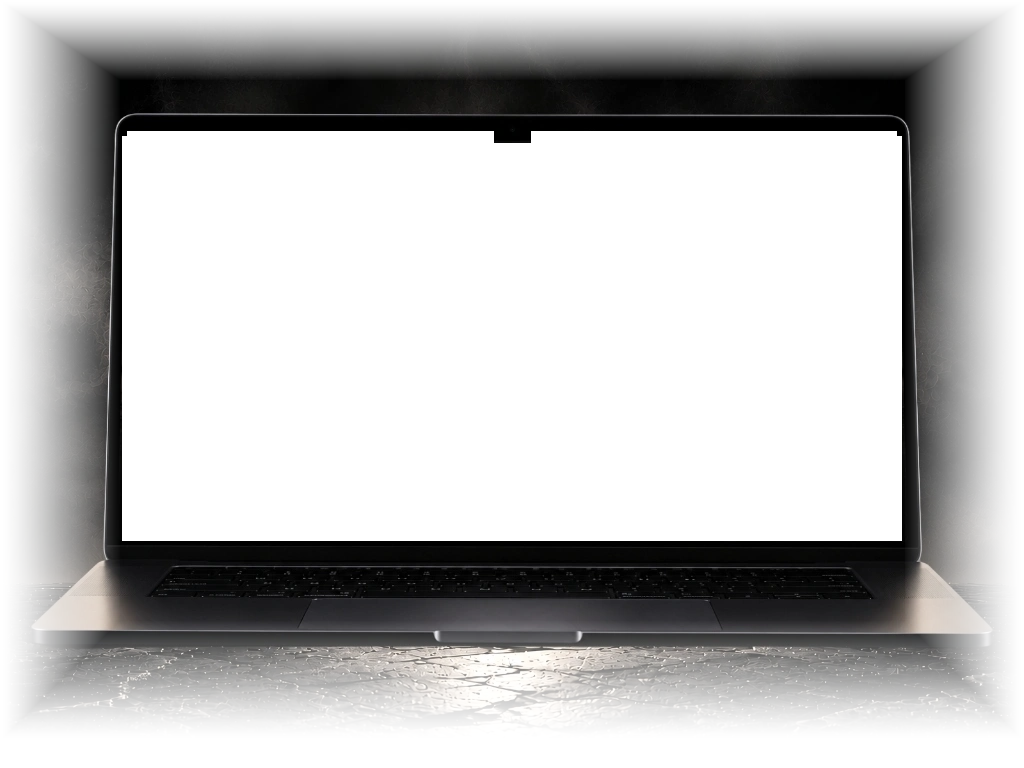
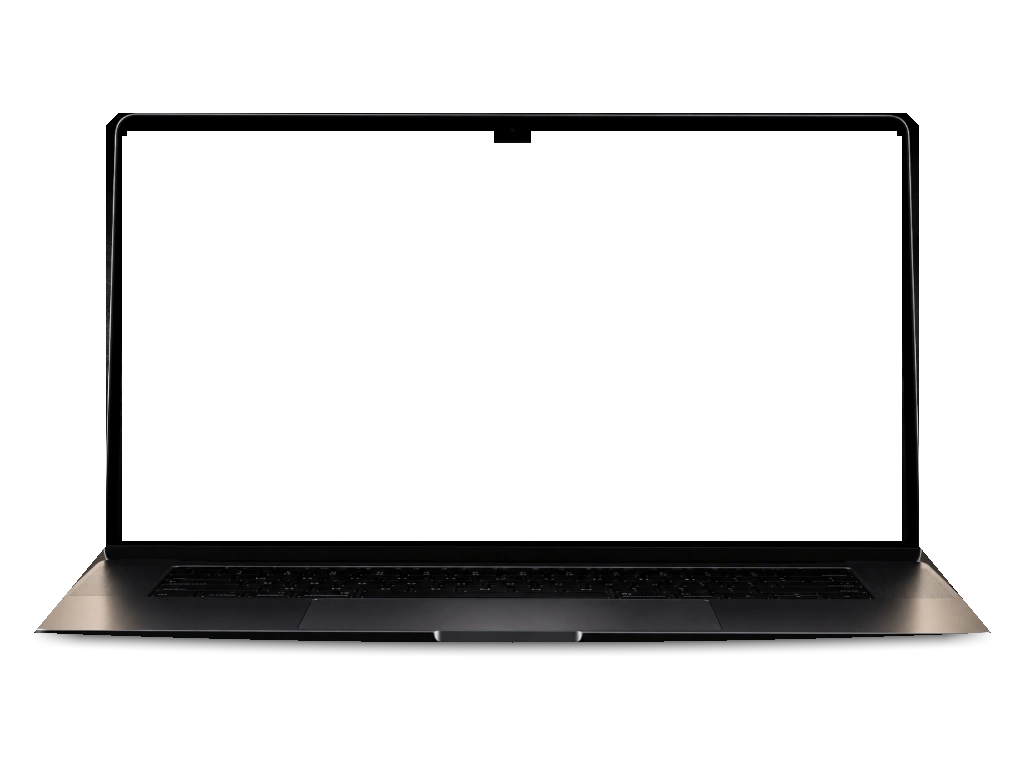
feat(hero): Lorenzo Lottici dark celestial horizon with borderless MacBook integration

diff --git a/src/components/landing/Hero.tsx b/src/components/landing/Hero.tsx
@@ -183,18 +183,25 @@ export function LandingHero() {
       className="relative min-h-[92vh] lg:min-h-screen flex flex-col justify-center pt-24 sm:pt-28 pb-12 sm:pb-16 px-4 sm:px-8 lg:px-14 overflow-hidden bg-black text-white select-none"
     >
       {/* =========================================================================
-          PURE BLACK STUDIO ATMOSPHERE (Lorenzo Lottici Awwwards Reference)
-          Minimal dark smoke, luxury ambient lighting, zero distraction
+          LORENZO LOTTICI DARK CELESTIAL HORIZON BACKGROUND
+          Distant monochromatic celestial sphere, foggy horizon, volumetric smoke
          ========================================================================= */}
       <div className="absolute inset-0 pointer-events-none overflow-hidden z-0 bg-black">
+        {/* Full-width Lorenzo Lottici Dark Celestial Horizon Backdrop */}
+        <img
+          src="/brand/hero-dark-celestial-horizon.webp"
+          alt="Dark Celestial Horizon Atmosphere"
+          className="w-full h-full object-cover object-center filter brightness-[1.05] contrast-[1.05]"
+        />
+
         {/* Subtle Warm Amber Glow behind Headline */}
         <div className="absolute top-[22%] left-[4%] w-[500px] h-[500px] bg-gradient-to-br from-amber-500/10 via-amber-600/5 to-transparent rounded-full blur-[130px] pointer-events-none" />
 
         {/* Subtle Cyan / Electric Glow behind MacBook */}
         <div className="absolute top-[18%] right-[8%] w-[650px] h-[550px] bg-gradient-to-bl from-cyan-500/10 via-indigo-600/5 to-transparent rounded-full blur-[140px] pointer-events-none" />
 
-        {/* Atmospheric mist texture */}
-        <div className="absolute inset-0 bg-[radial-gradient(#1e293b_1px,transparent_1px)] [background-size:36px_36px] opacity-20 pointer-events-none" />
+        {/* Left Side Ambient Vignette for 100% Vector Headline Readability */}
+        <div className="absolute inset-0 bg-gradient-to-r from-black via-black/75 md:via-black/35 to-transparent pointer-events-none" />
 
         {/* Top & Bottom Cinematic Dissolves */}
         <div className="absolute top-0 inset-x-0 h-28 bg-gradient-to-b from-black via-black/80 to-transparent pointer-events-none" />
@@ -532,6 +539,9 @@ export function LandingHero() {
                   alt="Apple MacBook Pro Hardware Frame"
                   className="absolute inset-0 w-full h-full object-contain pointer-events-none z-20 drop-shadow-[0_40px_80px_rgba(0,0,0,0.98)]"
                 />
+
+                {/* 3. VOLUMETRIC SOFT SMOKE / MIST DRIFTING ACROSS BASE */}
+                <div className="absolute bottom-[8%] left-1/2 -translate-x-1/2 w-[85%] h-16 bg-gradient-to-t from-white/[0.04] via-slate-400/[0.02] to-transparent rounded-full blur-xl pointer-events-none z-30" />
               </Link>
             </motion.div>
           </div>
